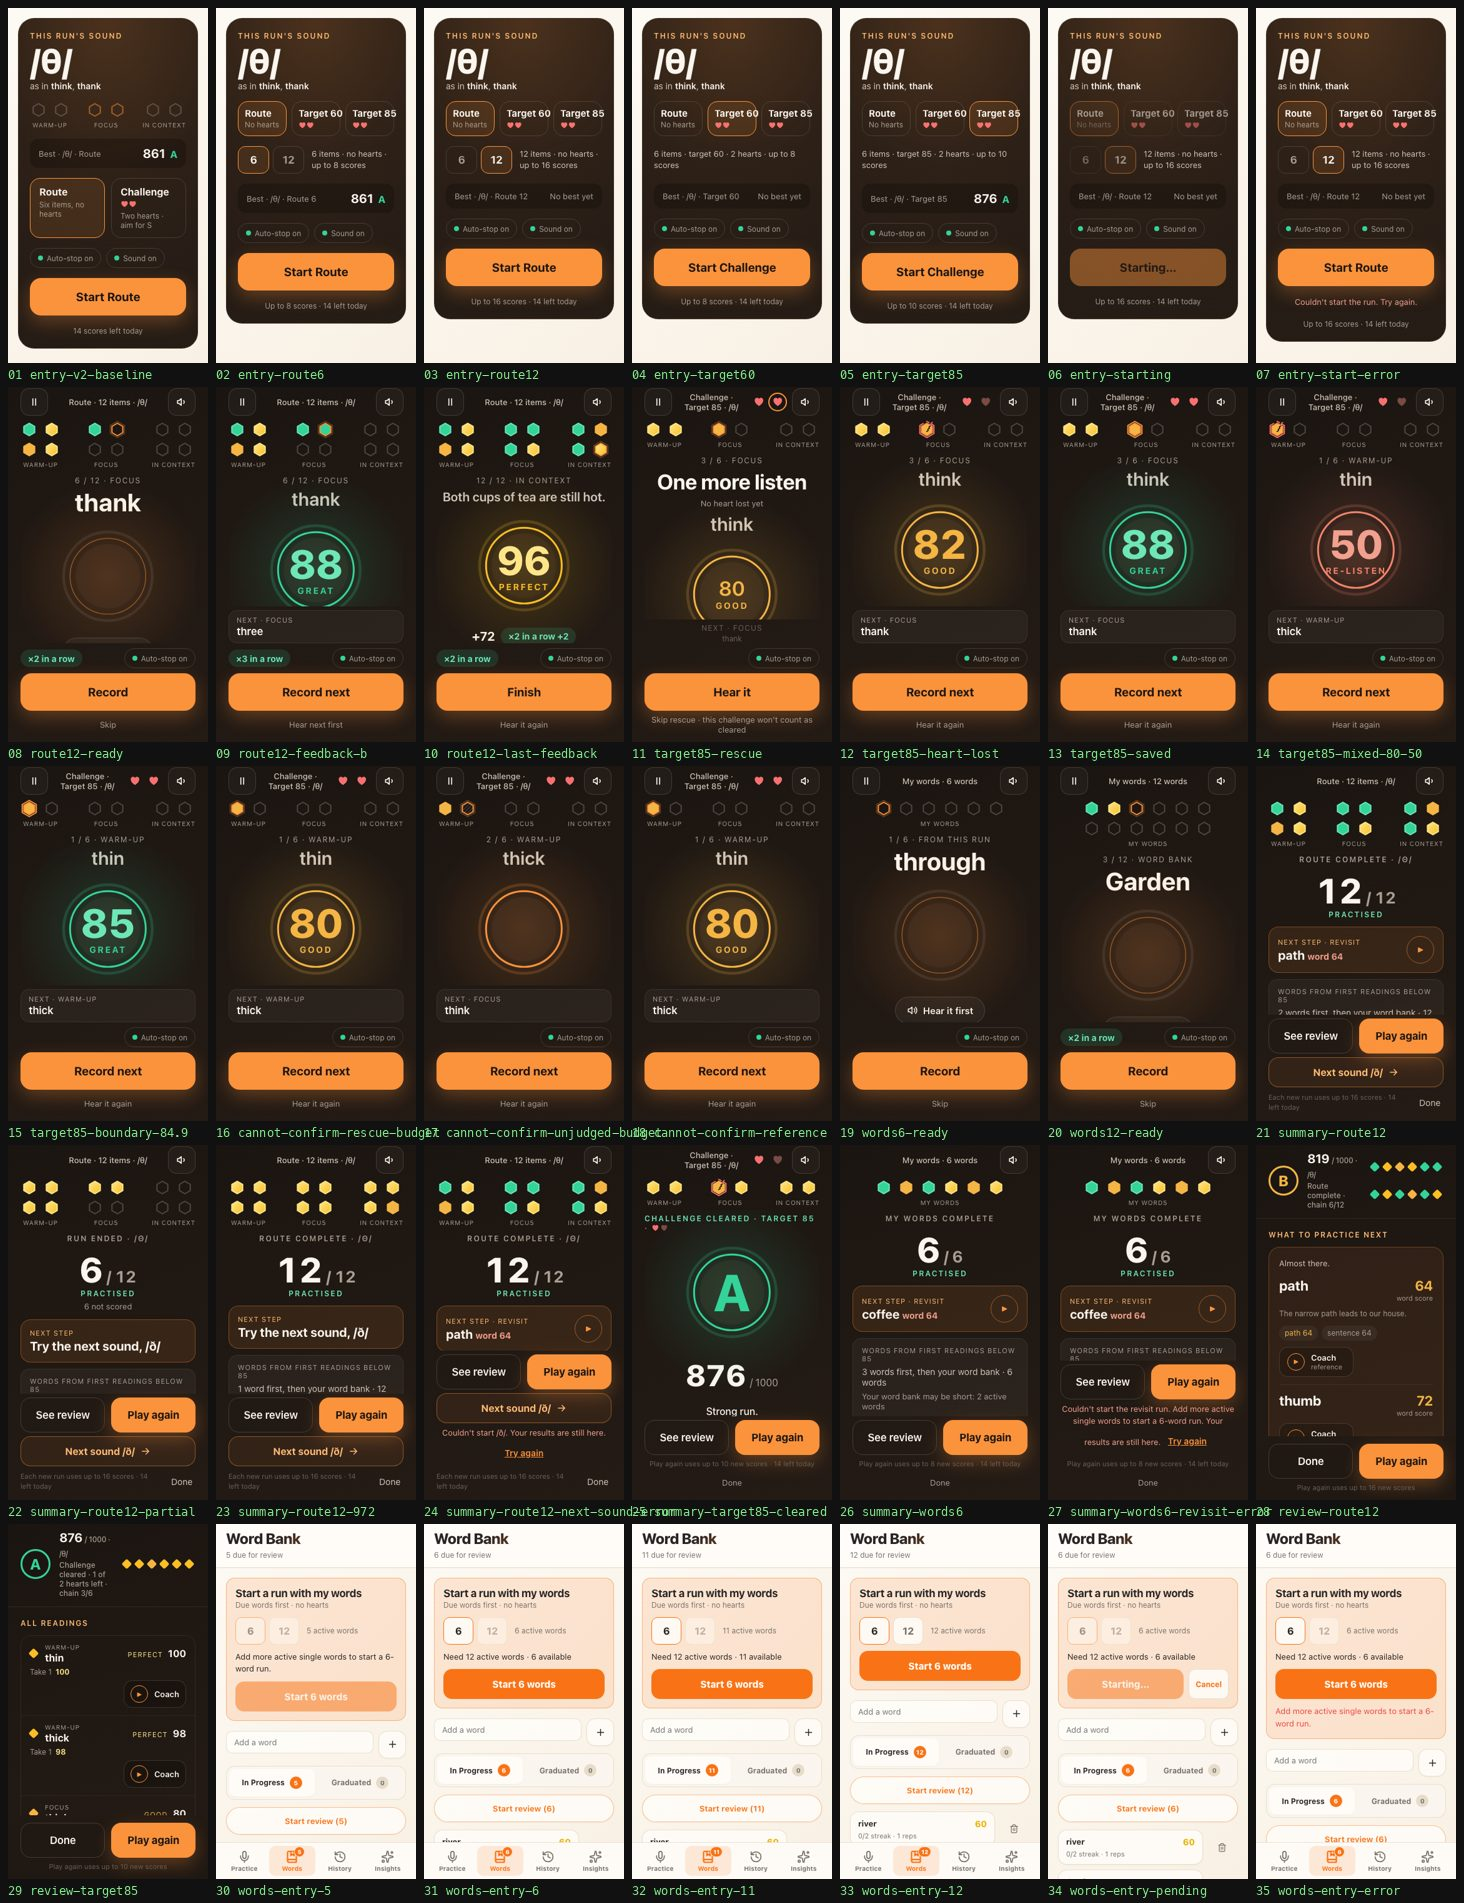
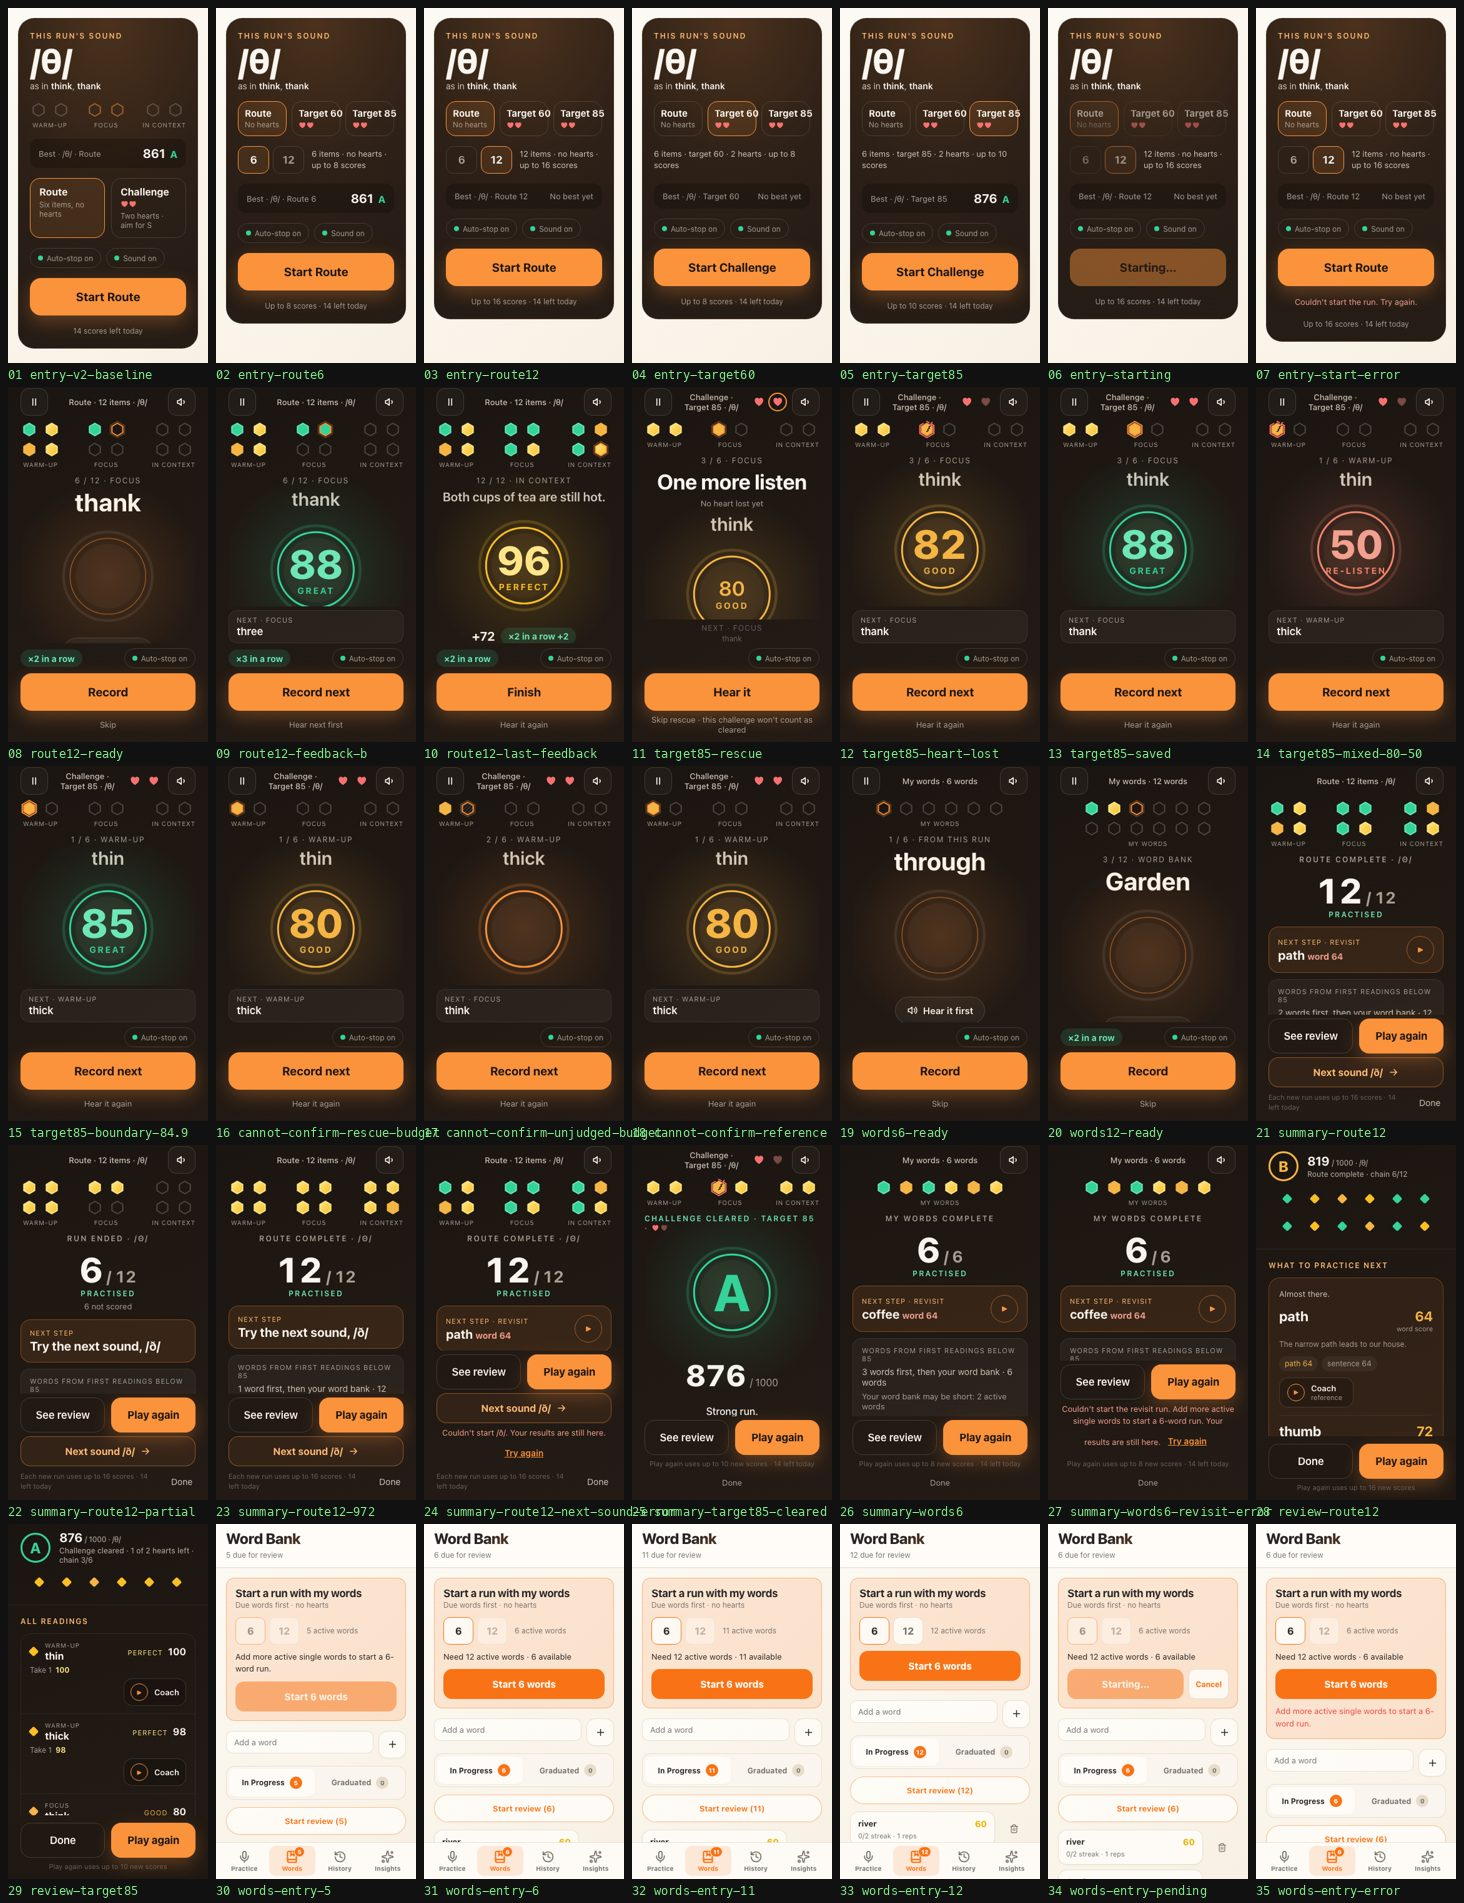
docs: update the v3 acceptance record after the review fixes
Re-captures the 35 states at all four viewports with the files of 3cfd9fa:
every v3 control now has at least a 44 px tap area, Review's jump stones
included, so the open issue is closed per the lead's ruling. Maps the new
B4-S1, B5-S1, B7-S1, B7-S2 and jump-stone tests, adds them to the late-audio
seam, and records bash scripts/test.sh at 3cfd9fa (464 frontend tests).

diff --git a/docs/testing/game-mode-v3-acceptance.md b/docs/testing/game-mode-v3-acceptance.md
@@ -19,6 +19,7 @@ Run from the repository root at `6a84702` (`feat/game-mode-v3`) with a clean wor
 | `npm --prefix frontend test -- --run src/mobile/screens/WordsScreen.test.tsx` | 0 | 1 file, 2 passed |
 | `PYTHONPATH=backend .venv/bin/python -m pytest backend/tests/test_game_starter_cache.py backend/tests/test_api.py backend/tests/test_public_word_bank.py` | 0 | 33 passed |
 | `bash scripts/test.sh` | 0 | Ruff clean; 120 backend tests passed; lint 0 errors (7 existing `react-hooks/exhaustive-deps` warnings, none in v3 code); 37 files, 455 frontend tests passed; production build succeeded |
+| `bash scripts/test.sh` (re-run at `3cfd9fa`, after the review fixes) | 0 | Ruff clean; 120 backend tests passed; lint 0 errors (same 7 warnings); 37 files, 464 frontend tests passed; production build succeeded |
 
 Vite also prints its existing notice that `vite.config.ts` uses ESM syntax in a file loaded as CommonJS; the build succeeds.
 
@@ -36,6 +37,8 @@ Test names are the acceptance names from the plan where one exists. Where an exi
 | B5 names covered by existing tests | `run_starting_owns_navigation_for_entry_and_restarts` → `deferred_start_hides_tabs_until_the_run_appears`, `next_sound_starts_the_next_focus_and_owns_navigation_while_pending`; `quit_retains_review_done_exits` → `quit_confirmation_calls_quit_not_exit`, `quit_with_a_recording_then_review_plays_it`, `cancel_quit_keeps_paused_run_and_results`; `hidden_active_vs_terminal_behavior_is_preserved` → `immersive_run_hides_tabs_and_pause_resume_is_explicit`, `completed_review_survives_hidden_and_visible_without_replaying`; `deferred_restart_then_done_never_reopens_run` → `done_during_replay_abandons_it`, `deferred_next_sound_then_done_never_reopens_run`; `summary_review_transition_retains_restart_failure` → `replay_failure_survives_summary_to_review_while_pending`, `next_sound_failure_survives_review_and_retry_keeps_destination`; `run_result_never_opens_ordinary_sheet` → `run_result_never_opens_normal_sheet_but_history_still_does`; `ordinary_explicit_score_and_drill_progress_still_work` → the existing ordinary-practice and drill tests in `MobileApp.test.tsx` |
 | My words entry, header/stones, no-PB Summary, revisit action, errors (B7) | `WordsScreen.test.tsx`: `words_entry_uses_session_guards_without_leave_confirmation`, `words_busy_and_starting_guards_hold`; `MobileApp.test.tsx`: `words_entry_counts_5_6_11_12_and_never_silently_shrinks`, `words_entry_pending_cancel_and_late_failure_say_nothing`, `words_entry_pending_error_survives_navigation`, `start_review_still_uses_ordinary_explicit_score`, `each_summary_revisit_preserves_original_until_start_succeeds`, `revisit_failure_survives_review_and_retry_keeps_action`, `words_done_drops_late_entry_or_revisit_error`; `PracticeRun.test.tsx`: `words_summary_shows_rating_without_pb_or_next_sound`, `summary_no_local_seeds_disables_revisit`, `summary_cached_shortage_does_not_disable_revisit`, `revisit_failure_names_its_reason_and_retries_it`, `full_bank_copy_never_promises_unknown_word_saved`; `useReplay.test.tsx`: `revisit_failure_keeps_its_reason_and_retry_keeps_action` |
 
+| Review fixes after B6 | B4-S1: `summary_done_tap_area_is_at_least_44px`; B5-S1: `summary_restart_gesture_stops_the_coach_first` (Play again, Next sound), `summary_try_again_stops_the_coach_first`, `summary_restart_drops_a_coach_still_loading`; B7-S1: `words_play_again_failure_names_the_shortage_6`, `_12`; B7-S2: `old_words_entry_error_does_not_survive_a_newer_run`; jump stones: `review_jump_stones_are_44px_six_per_row` |
+
 **Not added:** `route12_mocked_60_item_pack_completes_summary_review_and_replay`. A5 integrated the approved pack before B5, so Route 12 runs on the production pack in `route12_production_pack_completes_summary_review_and_replay`. The other `MobileApp` tests that follow fixed words mock the pack down to v2's two items per stage, because six-item decks are seeded by a time-based run ID.
 
 ### Cross-track seam review
@@ -45,7 +48,7 @@ The seams the plan names, with the tests on each side. Track A's halves are list
 | Seam | Track A | Track B |
 | --- | --- | --- |
 | Stale starts (entry, Play again, Next sound, My words, revisit) | `start_abandoned_by_exit_does_not_take_over_practice`, `stale_start_failure_never_reports_into_a_newer_run`, `restart_exit_or_owner_unmount_drops_late_success_error_finally`, `words_stale_start_blob_and_retry_guards_hold` | `deferred_start_hides_tabs_until_the_run_appears`, `failed_start_brings_tabs_back_with_an_error`, `a start abandoned by a remount never takes over the new app`, `done_during_replay_abandons_it`, `deferred_next_sound_then_done_never_reopens_run`, `words_entry_pending_cancel_and_late_failure_say_nothing`, `words_done_drops_late_entry_or_revisit_error`, `abandoned_or_older_restart_cannot_set_error` |
-| Late audio (reference, cues) | `preview_cancel_on_advance_skip_record_next_finish_pause_exit`, `hear_next_first_advances_once_then_previews_ready_item`, `existing_preview_guards_suppress_late_audio_and_error`, `quit_exit_play_again_drop_late_capture_and_cues` | `route_hear_first_and_hear_next_first_use_the_controller`, `one_you_or_coach_source_plays_at_a_time`, `late_coach_load_cannot_interrupt_you`, `changing take stops a loading or playing Coach`, `completed_review_survives_hidden_and_visible_without_replaying` |
+| Late audio (reference, cues) | `preview_cancel_on_advance_skip_record_next_finish_pause_exit`, `hear_next_first_advances_once_then_previews_ready_item`, `existing_preview_guards_suppress_late_audio_and_error`, `quit_exit_play_again_drop_late_capture_and_cues` | `route_hear_first_and_hear_next_first_use_the_controller`, `summary_restart_gesture_stops_the_coach_first`, `summary_try_again_stops_the_coach_first`, `summary_restart_drops_a_coach_still_loading`, `one_you_or_coach_source_plays_at_a_time`, `late_coach_load_cannot_interrupt_you`, `changing take stops a loading or playing Coach`, `completed_review_survives_hidden_and_visible_without_replaying` |
 | Receipt lifetime | `pb_receipt_survives_summary_remount_without_rewrite`, `pb_receipt_stays_frozen_across_tabs_expiry_and_surfaces`, `next_sound_failure_keeps_old_results_and_receipt`, `rated_words_never_read_write_or_finalize_pb` | `summary_buttons_live_at_frame_zero_and_reduced_motion_final`, `words_summary_shows_rating_without_pb_or_next_sound`, `each_summary_revisit_preserves_original_until_start_succeeds` |
 | Restart-error ownership | `next_sound_failure_keeps_old_results_and_receipt`, `words_fetch_or_shortage_preserves_old_run` | One `useReplay` owner in `PracticeScreen` above Summary and Review: `restart_failure_survives_summary_to_review`, `replay_failure_survives_summary_to_review_while_pending`, `next_sound_failure_survives_review_and_retry_keeps_destination`, `revisit_failure_survives_review_and_retry_keeps_action`; Words-entry errors live in `MobileApp`: `words_entry_pending_error_survives_navigation` |
 
@@ -56,7 +59,7 @@ No open cross-track defect is known. A7-S1 (boundary punctuation at START) was f
 ### Method
 
 - **Harness, not the live app.** Each state is rendered by the real `RunHero`, `PracticeRun`, `RunReview` and `MobileApp` components with the committed `styles.css`, `mobile.css` and `game.css`, inside the real mobile shell. Run states come from the real reducer and selectors through `frontend/src/components/runV3Fixtures.ts`. The Words-page states render the whole `MobileApp` with a mocked API (5, 6, 11 or 12 bank words; a held fetch for pending; a fresh fetch of three words for the error). Reduced motion is on, so every frame is final. There is no backend, recorder or live telemetry.
-- **Revision.** Rendered from `cce6b7b` with the B6 CSS fix applied; the component, mobile and CSS files are byte-identical to `6a84702` (checked with `diff -r`). The baseline entry card is rendered the same way from `7995c5e`, the v2 revision before v3 began.
+- **Revision.** Re-captured after the review fixes. The component, mobile and CSS files are those of `3cfd9fa`: the first capture was at `6a84702`, and this one adds the jump-stone layout and the B5/B7 fixes. The baseline entry card is rendered the same way from `7995c5e`, the v2 revision before v3 began.
 - **Exact viewports.** Headless Chrome (new headless mode) enforces a 500 px minimum window width, so each state was loaded in an iframe of exactly the target size, and each page measured itself.
   - **390×844:** the target phone.
   - **390×667:** a short screen.
@@ -91,12 +94,12 @@ All 35 states × 4 viewports = 140 renders.
 | Fixed-zone buttons on screen | 35 / 35 | 35 / 35 | 35 / 35 | 35 / 35 |
 | Controls without an accessible name | 0 | 0 | 0 | 0 |
 | Run bar title truncated | 0 | 0 | 0 | 0 |
-| Effective tap area under 44 px | Review jump stones only (see open issues) | Same | Same | Same |
+| Effective tap area under 44 px | None | None | None | None |
 | Ring diameter | 200 px | 173 px | 148 px | 169 px |
 
 **Middle area scrolling.** Content scrolls behind fixed controls in these places:
 
-- **At 390×844:** both Reviews, the Target 85 Summary (50 px) and the Words page.
+- **At 390×844:** both Reviews (the jump stones' own row adds 44 or 88 px to the Review header), the Target 85 Summary (50 px) and the Words page.
 - **At 390×667:** most Summaries scroll 19–184 px, with the Route 12 Summary at 117 px. The Target 85 rescue scrolls 83 px and the Route 12 feedback 33 px.
 - **At 320×568 and 130%:** most run screens scroll too. The largest is the Target 85 Summary, at 316 px at 320 wide.
 
@@ -123,23 +126,24 @@ Contact sheets (reduced motion, final frames, numbered in the order above):
 - [320×568](game-mode-v3-evidence/v3-states-320.jpg)
 - [130% proxy](game-mode-v3-evidence/v3-states-zoom130.jpg)
 
-**Defects this evidence found, fixed in `6a84702` before the final capture:**
+**Defects this evidence found, fixed before the final capture:**
 
 - At 320 px wide and at 130%, the run bar truncated "Challenge · Target 85 · /θ/" to "Challenge · …" on every Target 85 screen (18 renders). The title now wraps to two centred lines inside the 48 px bar.
 - Compact controls were under 44 px, including on the entry card, where the spec requires 44 px:
   - the Auto-stop and Sound toggles (32 px tall);
   - the text buttons Skip, Hear next first, Hear it again, Skip rescue and Done (32–36 px).
 
-  Each now takes taps across at least 44 px through an invisible extension, so the entry card keeps its height. The Summary's Done also gained a 44 px minimum width.
+  Each now takes taps across at least 44 px through an invisible extension, so the entry card keeps its height. The Summary's Done also gained a 44 px minimum width. Both fixes are in `6a84702`; `5a9aadd` pins the Done contract in a test (astra B4-S1).
+- Review's jump stones were 20×44 px, below the plan's 44 px requirement for review navigation (the same size shipped in v2). Following the lead's ruling, `3cfd9fa` gives them their own row under the headline: six 44×44 stones per row, so twelve items wrap 6+6 and six items keep one row. This also removes the cramped Review headline seen at 130%.
 
-### Open issues (for the lead)
+### Open issues
 
-- **Review jump stones are 20×44 px.** They are packed side by side, so a 44 px width needs a layout change in the Review bar: at 44 px each, twelve stones in the current 120 px column would wrap to six rows. The plan's B2 requirement ("review navigation … must have a ≥44 px hit area") is not met. The same size shipped in v2. Options: make the stones decorative and rely on the reading list, or redesign the bar. Not changed in B6.
+None from the layout evidence.
 
 ### Observations (not failures)
 
 - Summaries scroll on short screens. The fixed footer (Route: See review | Play again, Next sound, cost and Done; about 156 px) stays on screen, and the revisit action lives in the scrolling area as the plan requires.
-- At 130% the Target 85 Summary kicker wraps to two lines, and the Review score bar is cramped beside the jump stones, as already noted for v2.
+- At 130% the Target 85 Summary kicker wraps to two lines.
 - The Words page's word list is the existing `WordBankPanel`; its trash buttons are named by `title`, not `aria-label`.
 
 ## Accessibility checks
